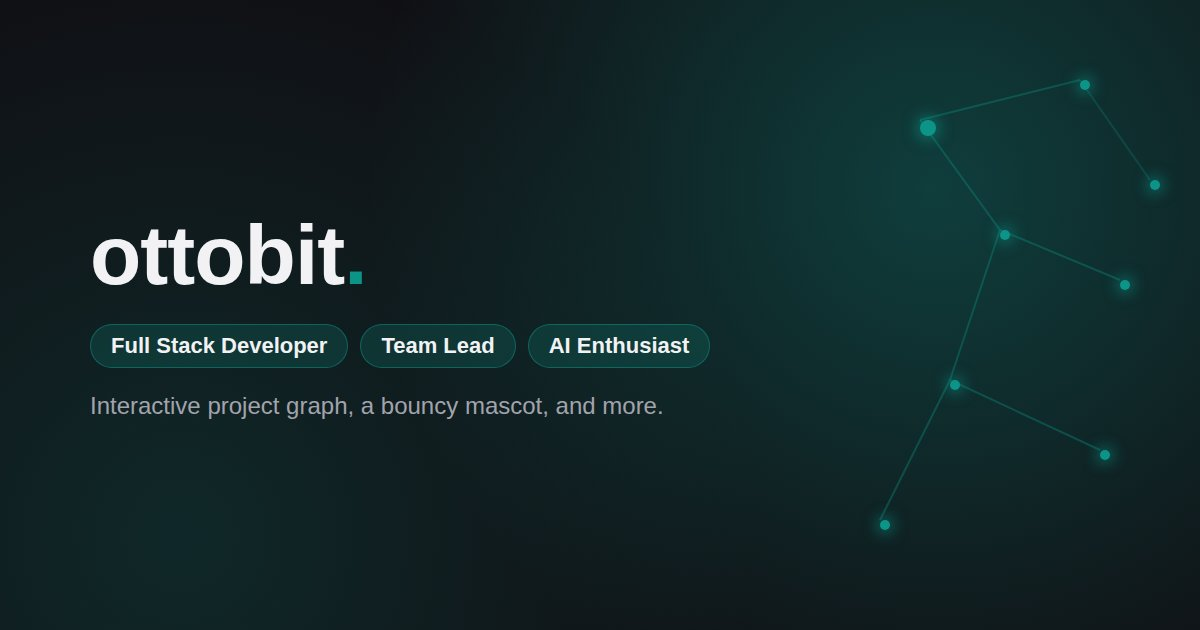
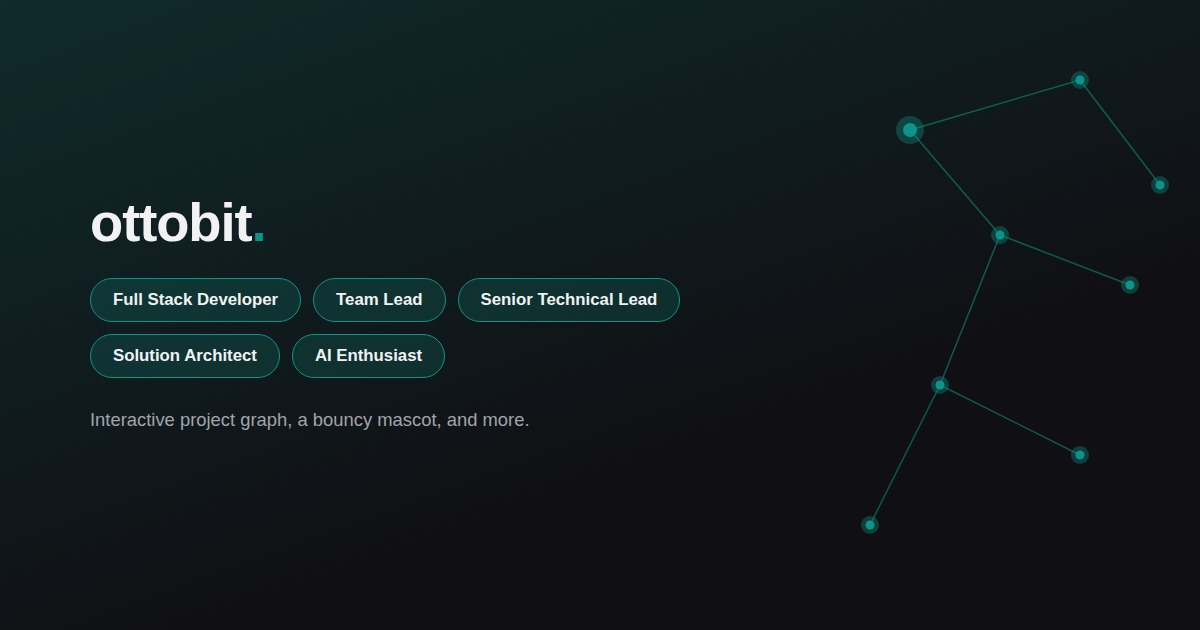
Update the social preview image with the current role chips (#179)
* Fix: dot's click-to-split broke after the ES module split

The scaffolding reorg moved script.js's news-feed code into its own
module but left lastNewsRefetchAt (plus NEWS_REFETCH_COOLDOWN_MS and
refetchAllNews) referenced from mascot.js without ever being
imported. Every click on the mascot threw a ReferenceError before
reaching the double-tap-to-split logic further down the same handler,
silently breaking splitting (and the click-to-refresh-news feature it
shares a handler with).

NEWS_REFETCH_COOLDOWN_MS and refetchAllNews are now exported from
news-feed.js and imported by mascot.js; lastNewsRefetchAt (only ever
read/written by mascot.js, never by news-feed.js itself) moves to
mascot.js as its own module-level state instead.

Also added: cache-busting on every internal ES module import. Only
the top-level <script src="assets/js/site.js?v=..."> tag was ever
getting a version bump — the imports between the split submodules
(nav.js -> theme-lang.js, mascot.js -> news-feed.js, etc.) had none,
so a browser that had already cached one of these files (e.g. from
before this very fix) could keep serving the stale, broken copy after
a new deploy. Every local import now carries a shared ?v=1 query
string, kept identical everywhere a given module is imported from
(required so it still resolves to one singleton instance).

Verified with a full interaction sweep (nav, hub graph + TTS, mascot
drag/click/pop/split, theme/lang toggles) — console clean, splitting
[…]

Changed region(s): [[0.0617, 0.0603, 1.0, 0.8746], [0.0617, 0.6333, 0.555, 0.6937], [0.0, 0.0, 0.0925, 0.0603]]

diff --git a/projects/dot-world/index.html b/projects/dot-world/index.html
@@ -9,13 +9,13 @@
     <meta property="og:url" content="https://ottobit.github.io/portfolio/projects/dot-world/">
     <meta property="og:title" content="ottobit — Dot World">
     <meta property="og:description" content="Dot World — a small world populated by many autonomous dots, each reasoning on its own with a local or remote model. A deterministic engine, marks as the only channel between dots, and news entering the world as weather.">
-    <meta property="og:image" content="https://ottobit.github.io/portfolio/assets/images/og-image.jpg">
+    <meta property="og:image" content="https://ottobit.github.io/portfolio/assets/images/og-image.jpg?v=2">
     <meta property="og:image:width" content="1200">
     <meta property="og:image:height" content="630">
     <meta name="twitter:card" content="summary_large_image">
     <meta name="twitter:title" content="ottobit — Dot World">
     <meta name="twitter:description" content="Dot World — a small world populated by many autonomous dots, each reasoning on its own with a local or remote model. A deterministic engine, marks as the only channel between dots, and news entering the world as weather.">
-    <meta name="twitter:image" content="https://ottobit.github.io/portfolio/assets/images/og-image.jpg">
+    <meta name="twitter:image" content="https://ottobit.github.io/portfolio/assets/images/og-image.jpg?v=2">
     <link rel="icon" href="../../assets/images/favicon.svg" type="image/svg+xml">
     <script>
     (function () {

diff --git a/index.html b/index.html
@@ -9,7 +9,7 @@
     <meta property="og:url" content="https://ottobit.github.io/portfolio/">
     <meta property="og:title" content="ottobit — AI Enthusiast | Music | Gaming">
     <meta property="og:description" content="Full Stack Developer, Team Lead, Senior Technical Lead & Solution Architect. Multi-agent AI architectures, system design, and things built out of curiosity.">
-    <meta property="og:image" content="https://ottobit.github.io/portfolio/assets/images/og-image.jpg">
+    <meta property="og:image" content="https://ottobit.github.io/portfolio/assets/images/og-image.jpg?v=2">
     <meta property="og:image:width" content="1200">
     <meta property="og:image:height" content="630">
     <meta property="article:author" content="Giuseppe Quartarone">
@@ -17,7 +17,7 @@
     <meta name="twitter:card" content="summary_large_image">
     <meta name="twitter:title" content="ottobit — AI Enthusiast | Music | Gaming">
     <meta name="twitter:description" content="Full Stack Developer, Team Lead, Senior Technical Lead & Solution Architect. Multi-agent AI architectures, system design, and things built out of curiosity.">
-    <meta name="twitter:image" content="https://ottobit.github.io/portfolio/assets/images/og-image.jpg">
+    <meta name="twitter:image" content="https://ottobit.github.io/portfolio/assets/images/og-image.jpg?v=2">
     <script type="application/ld+json">
     {
         "@context": "https://schema.org",

diff --git a/projects/evolution/index.html b/projects/evolution/index.html
@@ -9,13 +9,13 @@
     <meta property="og:url" content="https://ottobit.github.io/portfolio/projects/evolution/">
     <meta property="og:title" content="ottobit — Evoluzione del sito">
     <meta property="og:description" content="The evolution of ottobit's portfolio site — 130 pull requests in six days, one iteration at a time, from a blank page to an interactive node graph with a mascot of its own.">
-    <meta property="og:image" content="https://ottobit.github.io/portfolio/assets/images/og-image.jpg">
+    <meta property="og:image" content="https://ottobit.github.io/portfolio/assets/images/og-image.jpg?v=2">
     <meta property="og:image:width" content="1200">
     <meta property="og:image:height" content="630">
     <meta name="twitter:card" content="summary_large_image">
     <meta name="twitter:title" content="ottobit — Evoluzione del sito">
     <meta name="twitter:description" content="The evolution of ottobit's portfolio site — 130 pull requests in six days, one iteration at a time, from a blank page to an interactive node graph with a mascot of its own.">
-    <meta name="twitter:image" content="https://ottobit.github.io/portfolio/assets/images/og-image.jpg">
+    <meta name="twitter:image" content="https://ottobit.github.io/portfolio/assets/images/og-image.jpg?v=2">
     <link rel="icon" href="../../assets/images/favicon.svg" type="image/svg+xml">
     <script>
     (function () {

diff --git a/projects/cerebro/index.html b/projects/cerebro/index.html
@@ -9,13 +9,13 @@
     <meta property="og:url" content="https://ottobit.github.io/portfolio/projects/cerebro/">
     <meta property="og:title" content="ottobit — Cerebro Engine">
     <meta property="og:description" content="Cerebro Engine — a multi-agent LangGraph engine that turns a task description into a reviewed, evaluated deliverable, autonomously. State diagram of its flow.">
-    <meta property="og:image" content="https://ottobit.github.io/portfolio/assets/images/og-image.jpg">
+    <meta property="og:image" content="https://ottobit.github.io/portfolio/assets/images/og-image.jpg?v=2">
     <meta property="og:image:width" content="1200">
     <meta property="og:image:height" content="630">
     <meta name="twitter:card" content="summary_large_image">
     <meta name="twitter:title" content="ottobit — Cerebro Engine">
     <meta name="twitter:description" content="Cerebro Engine — a multi-agent LangGraph engine that turns a task description into a reviewed, evaluated deliverable, autonomously. State diagram of its flow.">
-    <meta name="twitter:image" content="https://ottobit.github.io/portfolio/assets/images/og-image.jpg">
+    <meta name="twitter:image" content="https://ottobit.github.io/portfolio/assets/images/og-image.jpg?v=2">
     <link rel="icon" href="../../assets/images/favicon.svg" type="image/svg+xml">
     <script>
     (function () {

diff --git a/projects/triple-triad/index.html b/projects/triple-triad/index.html
@@ -9,13 +9,13 @@
     <meta property="og:url" content="https://ottobit.github.io/portfolio/projects/triple-triad/">
     <meta property="og:title" content="ottobit — Triple Triad">
     <meta property="og:description" content="Triple Triad — the Final Fantasy VIII card minigame, rebuilt from scratch with a dedicated rules AI as the opponent. First sketch of a match's flow.">
-    <meta property="og:image" content="https://ottobit.github.io/portfolio/assets/images/og-image.jpg">
+    <meta property="og:image" content="https://ottobit.github.io/portfolio/assets/images/og-image.jpg?v=2">
     <meta property="og:image:width" content="1200">
     <meta property="og:image:height" content="630">
     <meta name="twitter:card" content="summary_large_image">
     <meta name="twitter:title" content="ottobit — Triple Triad">
     <meta name="twitter:description" content="Triple Triad — the Final Fantasy VIII card minigame, rebuilt from scratch with a dedicated rules AI as the opponent. First sketch of a match's flow.">
-    <meta name="twitter:image" content="https://ottobit.github.io/portfolio/assets/images/og-image.jpg">
+    <meta name="twitter:image" content="https://ottobit.github.io/portfolio/assets/images/og-image.jpg?v=2">
     <link rel="icon" href="../../assets/images/favicon.svg" type="image/svg+xml">
     <script>
     (function () {
